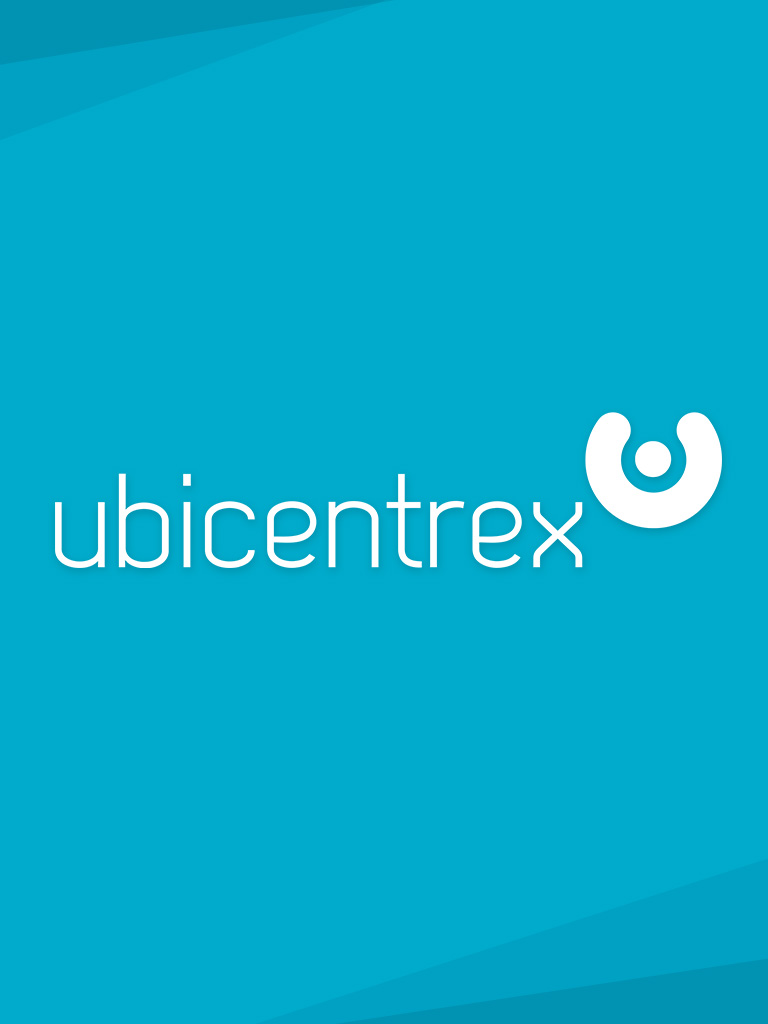
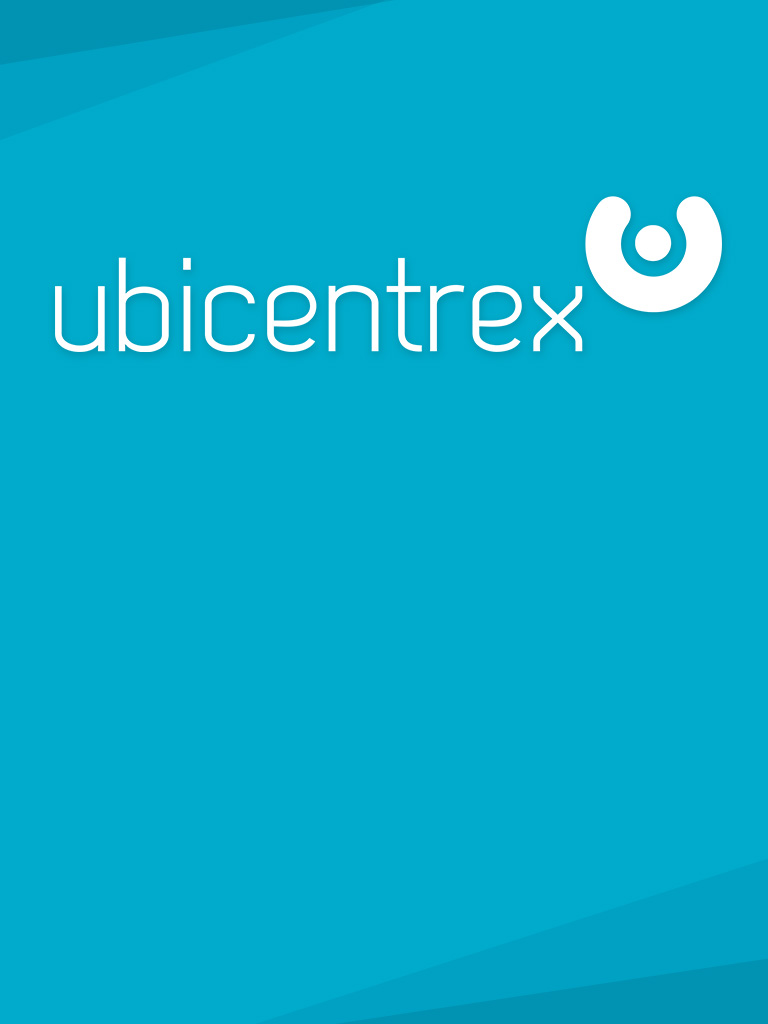
Corrections splash screens pour iphone 5 et iphone 4

Changed region(s): [[0.0625, 0.1875, 0.9375, 0.3438], [0.0625, 0.4688, 0.7812, 0.5625], [0.75, 0.4062, 0.9375, 0.5312]]

diff --git a/platforms/ios/www/css/login.css b/platforms/ios/www/css/login.css
@@ -5,32 +5,26 @@
 	height: 100%;
 }
 
-/* iPhone 2G-4S in portrait & landscape */
-@media only screen
-and (min-device-width : 320px)
-and (max-device-width : 480px) {
-    
-    .divContentLogin {
-        background: url("../img/loading_image/loading_image_iphone4.png") no-repeat center center fixed;
-        -webkit-background-size: cover;
-        -moz-background-size: cover;
-        -o-background-size: cover;
-        background-size: cover;
-    }
+/* #### iPhone 4+ Portrait or Landscape #### */
+@media screen and (min-device-width: 320px) and (-webkit-min-device-pixel-ratio: 2){
+	.divContentLogin {
+		background: url("../img/loading_image/loading_image_iphone4.png") no-repeat center center fixed;
+		-webkit-background-size: cover;
+		-moz-background-size: cover;
+		-o-background-size: cover;
+		background-size: cover;
+	}
 }
 
-/* iPhone 5 & 5S in portrait & landscape */
-@media only screen
-and (min-device-width : 320px)
-and (max-device-width : 568px) {
-    
-    .divContentLogin {
-        background: url("../img/loading_image/loading_image_iphone5.png") no-repeat center center fixed;
-        -webkit-background-size: cover;
-        -moz-background-size: cover;
-        -o-background-size: cover;
-        background-size: cover;
-    }
+/* #### iPhone 5 Portrait or Landscape #### */
+@media (device-height: 568px) and (device-width: 320px) and (-webkit-min-device-pixel-ratio: 2){
+	.divContentLogin {
+		background: url("../img/loading_image/loading_image_iphone5.png") no-repeat center center fixed;
+		-webkit-background-size: cover;
+		-moz-background-size: cover;
+		-o-background-size: cover;
+		background-size: cover;
+	}
 }
 
 /* iPhone 6 in portrait & landscape */
@@ -127,19 +121,3 @@ and (max-device-width : 1024px)  {
 	padding-bottom: 8px;
 	
 }
-
-#imgLogoUbi {
-    content: url('../img/logo_ubicentrex_blanc.png');
-    width: 80%;
-    margin-left: auto;
-    text-align: center;
-    margin-right: auto;
-    display: block;
-    position: relative;
-    top: 40%;
-}
-
-
-
-
-

diff --git a/platforms/ios/www/css/menu.css b/platforms/ios/www/css/menu.css
@@ -63,13 +63,12 @@
 	margin: 0;
 	padding: 0;
 	position:absolute;
-	height:78%;
+	height:72%;
 	width:100%;
 	left:0px;
 	bottom:0px;
 	background-color: var(--color-background-menu);
 	overflow-y:scroll;
-	-webkit-overflow-scrolling: touch;
 }
 
 .ulMenu li{
